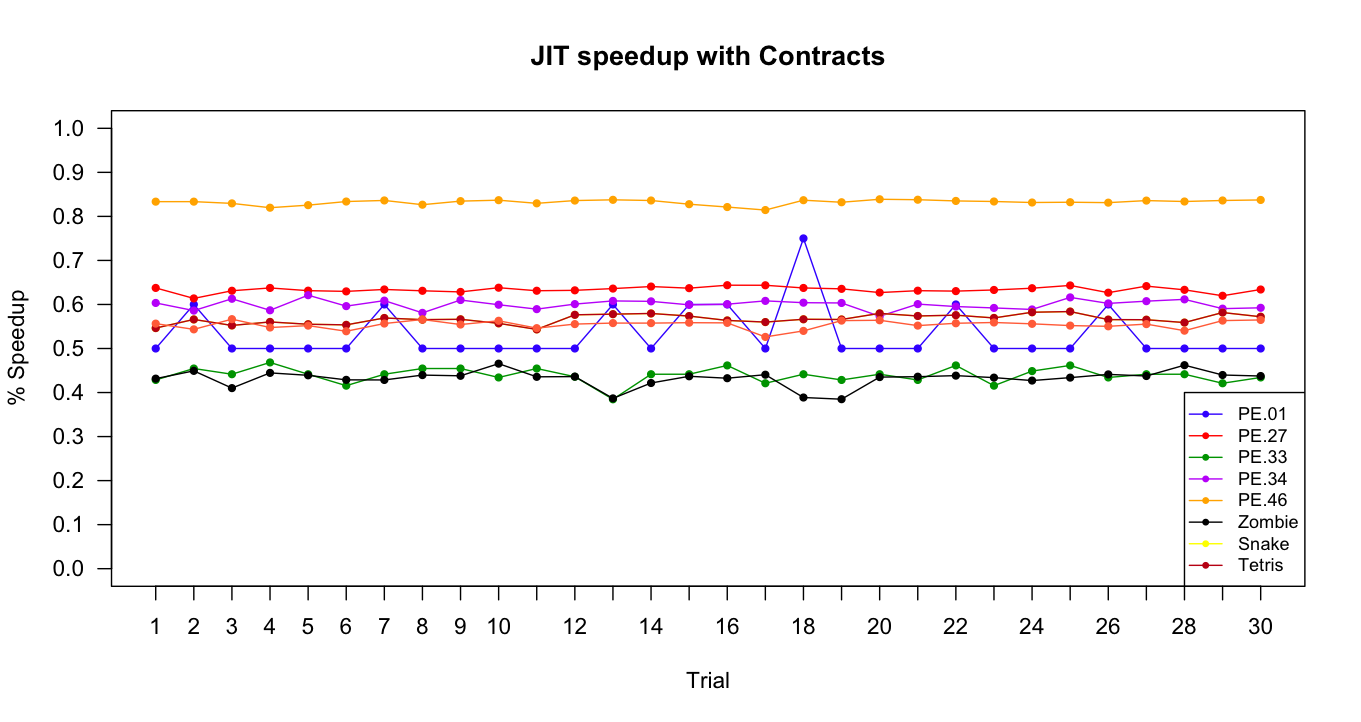
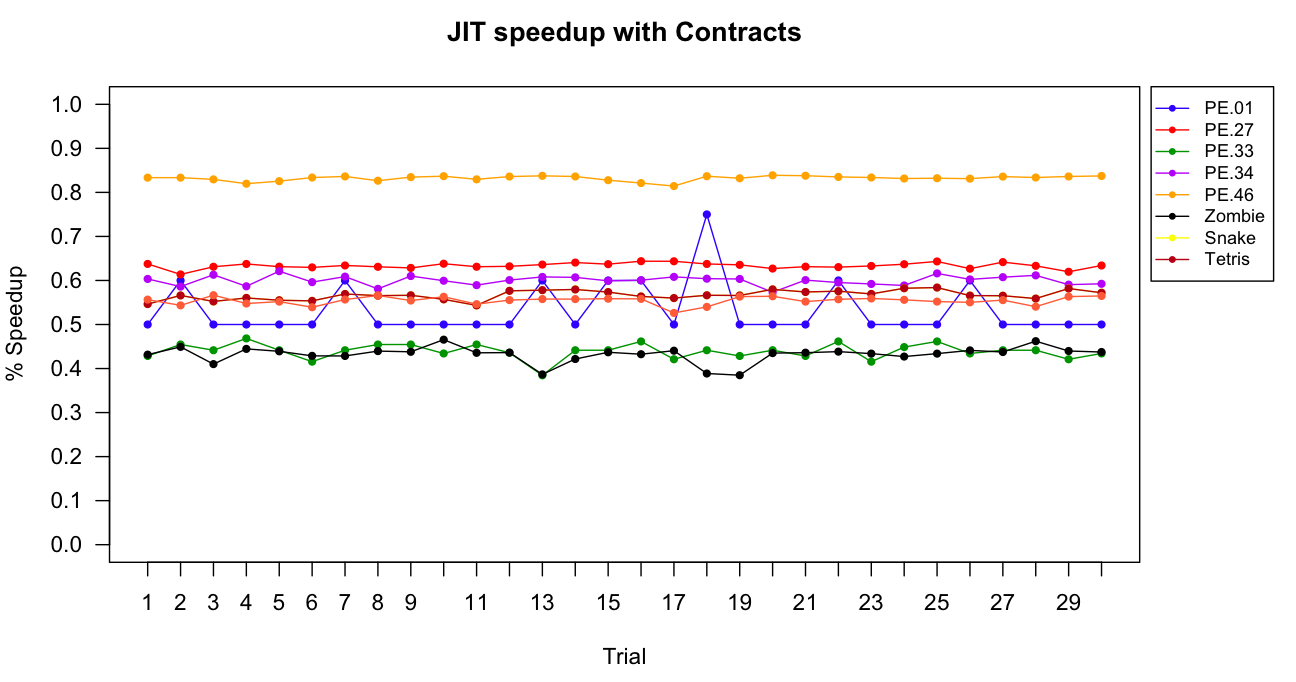
[r1-summary] recorded Racket version, moved legends to RHS of speedup graphs

diff --git a/results/round-1/summary/experiment.tex b/results/round-1/summary/experiment.tex
@@ -1,6 +1,8 @@
 \newpage
 \section{Experiment}
 
+Run using Racket v6.1.1.5
+
 \newpage
 \input{fig-runtimes}
 
